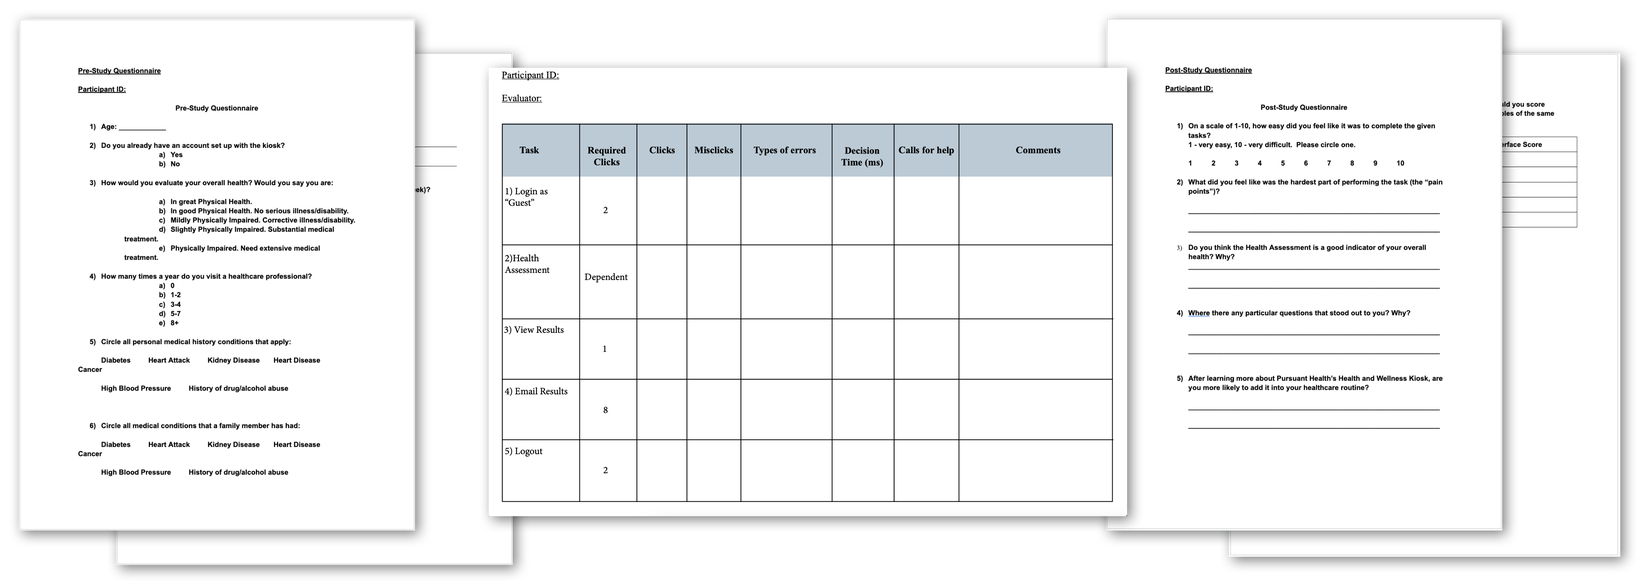
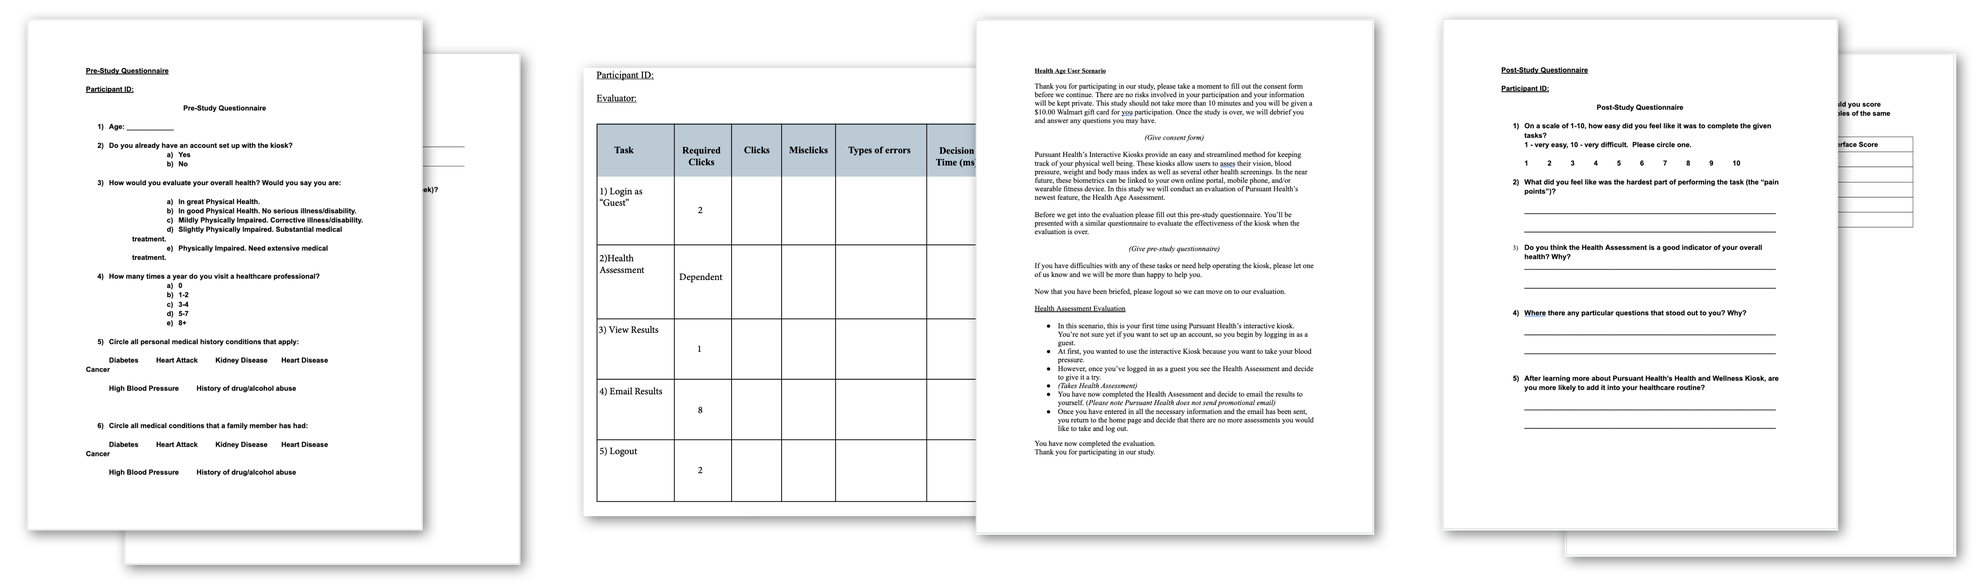
Updates to projects and fonts

diff --git a/project1.html b/project1.html
@@ -68,7 +68,7 @@
     </div>
   </header>
     
-<!-- PROJECT 1-->
+<!-- PROJECT 1 Overview-->
     
     <section class="page-section" id="portfolio_p1">
     <div class="container">
@@ -83,7 +83,8 @@
     In support of the program, the UXD and UXR team engaged on a project to inform the information architecture of the Service Now Self-Service Portal Catalog. To ensure that our work was grounded in evidence and aligned with user mental models, my research partner, and I conducted a rigorous qualitative free text analysis. As a part of our analysis, we developed a replicable framework to deliver valuable insights to our analytics team, facilitating a deeper understanding of how users articulate their technology-related issues.
 
     <br><br>
-                     
+    
+     <!-- PROJECT 1 Methods and Limitations-->
     <h2 class="text-left mt-0">Methods and Limitations</h2>          
     <p class= "text-dark mb-4" style= "font-family: sans-serif"> 
     Free text analysis is a valuable technique for designers and researchers to comprehend and classify different concepts within a given domain. It involves analyzing and organizing unstructured text data, providing insights into how people perceive and discuss information. In the realm of employee support experience transformation, where quantitative analyses may sometimes overlook nuanced insights, a qualitative free text analysis becomes crucial. Unlike broader quantitative approaches, this method allows for a deeper exploration of user sentiments and articulations related to technology issues. This qualitative check ensures that nuances are not lost, providing a more comprehensive understanding of user experiences.<br><br>
@@ -91,6 +92,12 @@
     In this analysis, we focused on the short description field in Service Now self-service ticket submissions, identifying common themes, topics, and patterns. To increase the effectiveness of this effort, we identified the top 10 ticket requests globally based on Service Now ticket volume data. For each request type, we collected and organized the free text extracted from the short description field, viewing between 30-50 tickets for each category in each country. In some countries, alternate categories were selected due to the absence of a specific catalog item.<br><br>
                       
     It is important to note that this method is purely qualitative in nature and does not provide statistically significant insights. The goal of this analysis was to establish high-level catalog item naming guidelines and to provide a framework for the analytics team to extrapolate.<br><br>
+        
+        
+        
+ <!-- PROJECT 1 Process-->
+       
+        
             
     <h2 class="text-left mt-0">Process</h2>          
     <p class= "text-dark mb-4" style= "font-family: sans-serif"> 
@@ -124,16 +131,21 @@
 </span>
 </div>
 <br><br>
+        
+
+<!-- PROJECT 1 Insights Summary-->
+
+        
         <h2 class="text-left mt-0">Insights Summary</h2>
         <br>
-        <h6 class="text-left mt-0"><b>"Intune Company Portal"</b></h6>
+        <h5 class="text-left mt-0">"Intune Company Portal"</h5>
         <p class= "text-dark mb-4" style= "font-family: sans-serif">
               
 Considering the prevalence of tickets received for both "Intune" and "Company Portal", we suggest combining the two names for better coverage of commonly used language, resulting in "Intune Company Portal".
 
  <br><br>
               
-                <h6 class="text-left mt-0"><b>"Microsoft Teams"</b></h6>
+                <h5 class="text-left mt-0">"Microsoft Teams"</h5>
           <p class= "text-dark mb-4" style= "font-family: sans-serif">
               
 Although both "Teams" and "MS Teams" were used in the same number of countries, "Teams" was more commonly used by individuals. However, "MS Teams" is a strong keyword.
@@ -141,21 +153,21 @@ Although both "Teams" and "MS Teams" were used in the same number of countries, 
    <br><br>
             
               
-                 <h6 class="text-left mt-0"><b>"Microsoft Outlook"</b></h6>
+                 <h5 class="text-left mt-0">"Microsoft Outlook"</h5>
           <p class= "text-dark mb-4" style= "font-family: sans-serif">
               
 In most cases, people referred to the product as "Outlook" without including "MS" or "Microsoft." Similar to how people referred to "Teams," they also used product functions like "Email" and "Calendar" to describe issues. These words would be great as keywords and for bot training.
 
    <br><br>
 
-      <h6 class="text-left mt-0"><b>"EY Remote Connect"</b></h6>
+      <h5 class="text-left mt-0">"EY Remote Connect"</h5>
           <p class= "text-dark mb-4" style= "font-family: sans-serif">
               
 There was a lot of variation in how people referred to EY's remote connection software, but "EY Remote Connect" is the most complete and accurate name. Most variations included a combination of "EY," "Remote," and "Connect." Because VPN usage is high in India, the USA, and China (all high-volume ticket countries), "VPN" should be an essential keyword.
               
                  <br><br>
 
-      <h6 class="text-left mt-0"><b>"RSA / SecurID"</b></h6>
+      <h5 class="text-left mt-0">"RSA / SecurID"</h5>
           <p class= "text-dark mb-4" style= "font-family: sans-serif">
               
 "RSA / SecurID" was not the most frequently used single term, but it was common across multiple countries and combines the two most common terms, "RSA token" and "SecurID," into one for better coverage. See the list of other phrases captured for how often "RSA" and "SecurID" were used in variations, and for keyword and bot training options. Other common terms include "Software Token," "RSA Hardware Token," "RSA Software Token," "SecurID Token," "SecurID VPN," "Token App," "Access Token," "RSA Security Token," "RSA Token Generator," "RSA Portal," "Security Token," "Secure Token," and "RSA code."
@@ -164,7 +176,7 @@ There was a lot of variation in how people referred to EY's remote connection so
                  <br><br>
               
               
-        <h6 class="text-left mt-0"><b>"Mercury Timesheet"</b></h6>
+        <h5 class="text-left mt-0">"Mercury Timesheet"</h5>
           <p class= "text-dark mb-4" style= "font-family: sans-serif">
               
 "Mercury Timesheet" was not the most frequently used single term, but it was common across multiple countries and combines the two most common terms, "Mercury" and "Timesheet," into one for better coverage.
@@ -172,7 +184,7 @@ There was a lot of variation in how people referred to EY's remote connection so
                  <br><br>
               
               
-             <h6 class="text-left mt-0"><b>"EY AppStore"</b></h6>
+             <h5 class="text-left mt-0">"EY AppStore"</h5>
           <p class= "text-dark mb-4" style= "font-family: sans-serif">
               
 There were a few different variations in capitalization and spacing for "EY AppStore," which should be considered when creating keywords and for bot training:
@@ -189,7 +201,7 @@ There were a few different variations in capitalization and spacing for "EY AppS
                  <br>
                   
                           
-      <h6 class="text-left mt-0"><b>"EY Canvas"</b></h6>
+      <h5 class="text-left mt-0">"EY Canvas"</h5>
           <p class= "text-dark mb-4" style= "font-family: sans-serif">
               
 
@@ -199,7 +211,7 @@ Although "EY Canvas" was not as widely used as just "Canvas," it includes "Canva
                  <br><br>
               
                                         
-      <h6 class="text-left mt-0"><b>"Phone"</b></h6>
+      <h5 class="text-left mt-0">"Phone"</h5>
           <p class= "text-dark mb-4" style= "font-family: sans-serif">
               
 
@@ -208,7 +220,7 @@ All references to "Phone" were related to installing Intune and other apps, so i
               
                  <br><br>
               
-              <h6 class="text-left mt-0"><b>"Laptop"</b></h6>
+              <h5 class="text-left mt-0">"Laptop"</h5>
           <p class= "text-dark mb-4" style= "font-family: sans-serif">
               
 
@@ -224,29 +236,35 @@ All references to "Phone" were related to installing Intune and other apps, so i
                                
 </ul>
 <br>
+        
+ 
+<!-- PROJECT 1 Reflection-->
+
+        
+        
 <h2 class="text-left mt-0">Reflection: Human-led Free Text Analysis Empowered by AI</h2>          
 <p class= "text-dark mb-4" style= "font-family: sans-serif"> 
 The ongoing advancements in AI present a compelling opportunity to enhance and expand the capabilities of a human-led free text analysis within the realm of user experience design research. While the qualitative nature of free text analysis can prove instrumental in capturing nuanced insights and understanding user sentiments, integrating AI-powered tools can expand this process by offering scalability, efficiency, and advanced analytics.<br><br>     </p>                         
                 
 
 <p class= "text-dark mb-4" style= "font-family: sans-serif"> 
-<h6 class="text-left mt-0"><b>Human-Led Framework for NLP Integration</b></h6>
+<h5 class="text-left mt-0">Human-Led Framework for NLP Integration</h5>
  <p class= "text-dark mb-4" style= "font-family: sans-serif"> 
 Human-led free text analysis establishes a structured framework by identifying key themes, sentiments, and patterns in unstructured text data, accounting for nuances and context that AI may overlook independently. The human-guided framework serves as a foundational dataset that AI-driven NLP algorithms can integrate and expand upon, enabling faster extraction of insights and greater understanding of user interactions with nuanced contexts.<br><br>
     
-<h6 class="text-left mt-0"><b>Guiding Sentiment Analysis with Human Insights</b></h6>
+<h5 class="text-left mt-0">Guiding Sentiment Analysis with Human Insights</h5>
 <p class= "text-dark mb-4" style= "font-family: sans-serif"> 
 Human-led analysis provides valuable insights into user emotions, attitudes, and contextual nuances within free text data, ensuring that AI-driven sentiment analysis accounts for complex emotions and subtle variations in sentiment expression. AI models for sentiment analysis can leverage this human-led framework to accurately identify sentiment patterns, refine sentiment categorizations, and adapt to evolving user sentiments over time while considering nuanced contexts.<br><br>
     
-<h6 class="text-left mt-0"><b>Framework-Based Topic Modeling for AI Enhancements</b></h6>
+<h5 class="text-left mt-0">Framework-Based Topic Modeling for AI Enhancements</h5>
 <p class= "text-dark mb-4" style= "font-family: sans-serif"> 
 The structured framework established through human-led topic identification and clustering accounts for nuances in nomenclature in topic categorization, ensuring that AI-powered topic modeling algorithms accurately capture and categorize diverse topics within free text data. By integrating human-derived topic categories and trends, AI can automate categorization, identify emerging topics, and enhance the accuracy of topic clustering within nuanced contexts.<br><br>
     
-<h6 class="text-left mt-0"><b>Enhancing Named Entity Recognition (NER) with Human-Curated Framework</b></h6>
+<h5 class="text-left mt-0">Enhancing Named Entity Recognition (NER) with Human-Curated Framework</h5>
 <p class= "text-dark mb-4" style= "font-family: sans-serif">
 Human analysts contribute to identifying and categorizing specific entities within free text, such as product names, technical terms, and organizational references, considering nuanced contextual references that AI may not capture independently. This curated framework serves as a valuable dataset for training AI techniques like NER, enabling more accurate entity recognition and categorization in unstructured text data while accounting for nuanced contexts.<br><br>
     
-<h6 class="text-left mt-0"><b>Utilizing Human-Driven Insights for Advanced Visualization</b></h6>
+<h5 class="text-left mt-0">Utilizing Human-Driven Insights for Advanced Visualization</h5>
 <p class= "text-dark mb-4" style= "font-family: sans-serif">
 The insights and patterns identified through human-led analysis, which account for nuances and context, provide the foundation for AI-driven data visualization tools. By integrating human-derived insights, AI can transform textual data into interactive visual representations that facilitate clearer communication of nuanced insights, trends, and correlations to stakeholders and decision-makers.<br><br>
 </p>      

diff --git a/project3.html b/project3.html
@@ -70,7 +70,10 @@
     
     
     
-<!-- PROJECT 4-->     
+<!-- PROJECT 4 Overview-->     
+    
+    
+    
      <section class="page-section" id="portfolio_p1">
     <div class="container">
     <div class="col-lg-12 col-md-12 justify-content-center" ><br>
@@ -93,6 +96,11 @@ Through a partnership with Cleveland Clinic Wellness, kiosk users can access a v
 <p class="text-dark mb-4" style= "font-family: sans-serif">             
 The Health Age assessment aims to develop a user-friendly assessment tool in collaboration with Cleveland Clinic Wellness experts. The tool measures weight, blood pressure, and lifestyle and behavioral factors to calculate a user's Health Age compared to their actual age, with an average completion time of 4-5 minutes on both kiosk and web platforms. Users are provided with personalized recommendations for improving their Health Age, while also identifying potential health risks based on their inputs and non-invasive biometric measurements. <br><br>
 
+    
+<!-- PROJECT 4 Process and Development-->   
+    
+    
+    
 <h2 class="text-left mt-0">Health Age Assessment Design and Development</h2>   
         
 <p class="text-dark mb-4" style= "font-family: sans-serif">Collaborating with Dr. Michael Roizen and the Cleveland Clinic Wellness team, we designed and developed the NCQA-certified Health Age assessment. We followed established HRA (Health Risk Assessment) standards from major health insurers as a guide, incorporating innovative elements based on a proprietary algorithm for calculating Health Age.<br><br>
@@ -103,7 +111,13 @@ The testing phase also enabled us to implement targeted interventions throughout
 
 Ultimately, our collaborative effort resulted in the NCQA certification of the Health Age assessment in Wellness and Health Promotion (WHP) by March 2016. This certification validated the assessment's effectiveness in delivering actionable insights and empowering users to proactively manage their health. <br><br>
 
-<h2 class="text-left mt-0">Testing</h2> 
+    
+    
+ <!-- PROJECT 4 Usability Testing-->     
+   
+    
+    
+<h2 class="text-left mt-0">Usability Testing</h2> 
 <p class="text-dark mb-4" style= "font-family: sans-serif">We performed usability testing during a limited release of the kiosk’s new user interface in two Walmart locations in Atlanta, Georgia. The overall objective was to identify how the system’s conceptual model aligns with users’ mental models of the system to determine potential design requirements. The evaluation was composed of three parts: <br><br>
 <ol class="text-dark mb-4" style= "font-family: sans-serif">
 <li>Pre-study survey <br></li>
@@ -113,30 +127,27 @@ Ultimately, our collaborative effort resulted in the NCQA certification of the H
 <p class="text-dark mb-4" style= "font-family: sans-serif">
 A total of ten (N=10) individuals participated in the testing. Users were divided up evenly between the two locations; five users at the Chamblee Dunwoody Walmart and five at the Ashford Dunwoody Walmart. The age of users tested ranged from 27 to 79 and the breakdown consisted of 20% ages 20-29, 20% ages 30-39, 20% ages 50-59, 20% ages 60-69 and 20% ages 70-79. <br><br>
         
-Testing was conducted by presenting two scenarios and giving users a set of tasks to perform on the kiosk. One Pursuant Health team member was responsible for prompting the user through the experience while the other was responsible for evaluating the user’s actions. Each task completed was evaluated based on the number of correct clicks/mis-clicks, types of errors associated with the mis-clicks, the time it took the user to make each decision and any calls for help.<br>
+Testing was conducted by presenting two scenarios and giving users a set of tasks to perform on the kiosk. One Pursuant Health team member was responsible for prompting the user through the experience while the other was responsible for evaluating the user’s actions. Each task completed was evaluated based on the number of correct clicks/mis-clicks, types of errors associated with the mis-clicks, the time it took the user to make each decision and any calls for help.<br><br>
  
 <div class="text-center" class="container text-center" href="img/portfolio/fullsize/Testing%20Protocol.webp">
-    <img class="img-fluid col-lg-4 col-sm-6" style= "max-width:1200px"src="img/portfolio/fullsize/Testing%20Protocol.webp" alt="Health Age Assessment Testing Protocols"> <br><br>
+    <img class="img-fluid col-lg-4 col-sm-6" style= "max-width:1200px"src="img/portfolio/fullsize/Testing%20Protocol.webp" alt="Health Age Assessment Testing Protocols"> <br><br><br>
 </div> 
     
     
-<h4 class="text-left mt-0">Findings</h4>
-<p class="text-dark mb-4" style= "font-family: sans-serif">
-Pre-Study Survey:
+<h4 class="text-left mt-0">Findings</h4><br>
+<h5 class="text-left mt-0">Pre-Study Survey:</h5>
 <ol class="text-dark mb-4" style= "font-family: sans-serif">
 <li>The pre-study survey revealed that only 60% of users considered themselves to be in good health. 30% self-reported their health as average (with a corrective illness or disability) and 10% reported as slightly physically impaired. No users considered themselves to be in great physical health and none reported being fully physically impaired.</li>
 <li>Eight out of ten users (80%) had concerns about a personal family medical condition. The breakdown consisted of 20% concerned about heart disease, 20% about diabetes, 20% about blood pressure, 10% about cancer and 10% about renal insufficiency.</li>
 </ol><br>
         
-<p class="text-dark mb-4" style= "font-family: sans-serif">    
-User Scenario Evaluation Test:<br>
+<h5 class="text-left mt-0">User Scenario Evaluation Test:</h5>
 <ol class="text-dark mb-4" style= "font-family: sans-serif">
 <li>The tasks that proved the most difficult for users included emailing results, logging in to an existing account and entering an email address.</li>
 <li>Tasks with a 100% success rate (no errors) included viewing results, taking weight (BMI) test, going to user dashboard and logging out.</li>
 </ol><br>
         
-<p class="text-dark mb-4" style= "font-family: sans-serif">           
-Post-Study Survey:<br>
+<h5 class="text-left mt-0">Post-Study Survey:</h5>
 <ol class="text-dark mb-4" style= "font-family: sans-serif">
 <li>Users were asked to report how easy it was for them to perform the given tasks on a scale of 1-10 (1 being the easiest and 10 being the most difficult). 7 out of 10 users (70%) marked a "1" (very easy), 20% marked a "2" and 10% marked a "6".</li>
 <li>When asked which feature would be the most helpful for users in reaching their health care goals, 50% said the blood pressure test, 30% said the ability to track and trend individual progress and 20% said the vision assessment.</li>
@@ -149,7 +160,7 @@ Post-Study Survey:<br>
 <p class="text-dark mb-4" style= "font-family: sans-serif">
 This testing exhibited that although the majority of participants found the tasks to be “very easy”, the usability can be improved to ensure maximum efficiency and simplicity for all kiosk users. We created a list of recommendations following the usability testing for modifying the interface software. Recommendations include increasing the visibility for certain buttons, making the “Dashboard” and “Profile” features more obvious to the user, creating a more comprehensive data storage system that seamlessly transitions data for users who visit the kiosk before creating an account as well as improving other minor interface functionalities.
         
- <ul class="text-dark mb-4" style= "font-family: sans-serif">
+<ul class="text-dark mb-4" style= "font-family: sans-serif">
 <li>Enhanced Contextual Information for Cleveland Clinic Association:<br>
 Provide clear and concise information about the Cleveland Clinic and its association with the Health Age assessment. This will help users understand the significance of the assessment and how it contributes to their overall health journey.</li>                  
 <li>Improved User Guidance for Checkbox Selection:<br>
@@ -162,13 +173,15 @@ Implement an interactive bar graph that visually compares Health Age to Physical
 Incorporate a progress bar during the Health Assessment to provide users with a clear indication of their progress and remaining assessment duration. This addition will enhance user experience by reducing uncertainty and improving engagement.</li>
 <li>Clear Communication of Health Age Assessment Purpose:<br>
 Clearly communicate the purpose of the Health Age assessment and its connection to Cleveland Clinic wellness programs. Highlight the benefits of the assessment in improving overall health to increase user engagement and motivation.</li>
-
-
 </ul>
-  <br>      
-        <h2 class="text-left mt-0">Field Soak Benchmarking</h2> 
+<br>  
+        
+ <!-- PROJECT 4 Field Soak Benchmarking-->     
+        
+        
+<h2 class="text-left mt-0">Field Soak Benchmarking</h2> 
 <p class="text-dark mb-4" style= "font-family: sans-serif">
-The Health Age Assessment was deployed to Pursuant Health kiosks located in Florida and Georgia. Pursuant Health collected data from April 2015 to July 2015 in order to compare metrics between kiosks with the new user interface (N=317) and kiosks without the new interface (N=3178).   
+The Health Age Assessment was deployed to Pursuant Health kiosks located in Florida and Georgia. Pursuant Health collected data from April 2015 to July 2015 in order to compare metrics between kiosks with the new user interface (N=317) and kiosks without the new interface (N=3178).<br> <br>
     
 <h4 class="text-left mt-0">Findings</h4>
 <p class="text-dark mb-4" style= "font-family: sans-serif">
@@ -188,44 +201,50 @@ The Health Age Assessment was deployed to Pursuant Health kiosks located in Flor
         <div class="text-center" class="container text-center" href="img/portfolio/fullsize/Graph%203.webp">
             <img class="img-fluid col-lg-4 col-sm-6" style= "max-width:1000px"src="img/portfolio/fullsize/Graph%203.webp" alt="Health Age Assessment Displayed Next to Kiosk Illustration"> <br><br>
         </div>
+        
+ 
+        
+<!-- PROJECT 4 Outcomes--> 
+        
+        
 <h2 class="text-left mt-0">Positive Health Outcomes</h2><br>     
 
-<h6 class="text-left mt-0"><b>Tobacco Cessation Program:</b></h6>
+<h5 class="text-left mt-0">Tobacco Cessation Program:</h5>
 <p class="text-dark mb-4" style= "font-family: sans-serif">
 <ul class="text-dark mb-4" style= "font-family: sans-serif">
 <li>A group of participants (N=81) enrolled in the Cleveland Clinic Tobacco Cessation e-coaching program. At the end of the program, 32 participants had dropped out of the program, resulting in 49 remaining active participants.</li>
 <li>41 participants from this group successfully quit smoking with the guidance of the program. This accounts for 51% of the total group including dropouts (N=81) and 84% of the active participants (N=49).</li>
-</ul>
+</ul><br>
         
-<h6 class="text-left mt-0"><b>Weight Loss e-Coaching</b></h6>
+<h5 class="text-left mt-0">Weight Loss e-Coaching</h5>
 <p class="text-dark mb-4" style= "font-family: sans-serif">
 <ul class="text-dark mb-4" style= "font-family: sans-serif">  
 <li>Average weight loss of 21.1 pounds</li>
 <li>Average BMI reduction of 2 points</li>
 <li>Average waist circumference reduction of 3.5 inches</li>
-</ul> 
+</ul><br>
         
         
-<h6 class="text-left mt-0"><b>Stress Management Program</b></h6>
+<h5 class="text-left mt-0">Stress Management Program</h5>
 <p class="text-dark mb-4" style= "font-family: sans-serif">
 <ul class="text-dark mb-4" style= "font-family: sans-serif">    
 <li>30% reduction in perceived stress</li>
-</ul>
+</ul><br>
      
-<h6 class="text-left mt-0"><b>Improved Sleep Program</b></h6>
+<h5 class="text-left mt-0">Improved Sleep Program</h5>
 <p class="text-dark mb-4" style= "font-family: sans-serif">
 <ul class="text-dark mb-4" style= "font-family: sans-serif">    
 <li>56% completion rate</li>
 <li>41% decrease in PIRS score</li>
 <li>10% increase in sleep efficiency</li>
-</ul>
+</ul><br>
     
-<h6 class="text-left mt-0"><b>Nutrition Program</b></h6>
+<h5 class="text-left mt-0">Nutrition Program</h5>
 <p class="text-dark mb-4" style= "font-family: sans-serif">
 <ul class="text-dark mb-4" style= "font-family: sans-serif">    
 <li>Average weight loss of 2 pounds</li>
 <li>Average waist circumference reduction of 0.5 inch</li>
-</ul>    
+</ul><br>    
           </div>
     </div>
         

diff --git a/project5.html b/project5.html
@@ -95,7 +95,7 @@
     </div>
   </header>
     
-    <!-- PROJECT 7-->   
+<!-- PROJECT 7 Overview-->   
 <section class="page-section" id="portfolio_p1">
     <div class="container">
     <div class="col-lg-12 col-md-12 justify-content-center" ><br>
@@ -104,21 +104,26 @@
 
 Hybrid working has emerged as a predominant model with EY employees spending an average of 49% of their time working remotely in FY24 compared to 10% in FY19. This shift has presented opportunities and challenges related to productivity, talent attraction and retention, employee wellbeing, organizational culture, and brand equity. As the prevalence of hybrid working continues, the virtual dimension of the "EY experience" has become more significant, making the tools and technology enabling this experience critical for success.<br>
 
-<br><br>
+<br><br>  
+                         
               
 <div class="section-with-background">
-    <h2 class="text-left mt-0">Current State Problems</h2>
-    <p class="text-dark mb-4" style="font-family: sans-serif">
-        Cost Optimization:<br>Proliferation of localized customization in device lifecycle management results in inefficiencies and inflated total cost of ownership. Conversely, rigid and highly standardized approaches may not fully address NPS.
+    <h2 class="text-left mt-0">Current State Problems</h2><br>
+    
+    <h5 class="text-left mt-0">Cost Optimization:</h5>
+     <p class="text-dark mb-4" style="font-family: sans-serif">
+         Proliferation of localized customization in device lifecycle management results in inefficiencies and inflated total cost of ownership. Conversely, rigid and highly standardized approaches may not fully address NPS.
         <br><br>
-        Attracting and Retaining Talent:
+    <h5 class="text-left mt-0"> Attracting and Retaining Talent:</h5>
         <ul class="text-dark mb-4" style="font-family: sans-serif">
             <li>Poor device performance leads to extended working hours, impacting employee stress, frustration, and overall wellbeing. It hinders engagement with the EY employer brand.</li>
             <li>Disparities in device access between home and office spaces create challenges for employees, affecting wellbeing and limiting flexibility in work choices.</li>
             <li>Suboptimal device setups impede productivity, requiring a shift from a one-size-fits-all approach to accommodate varied role and personal context needs.</li>
         </ul><br>
-        <p class="text-dark mb-4" style="font-family: sans-serif">
-        Brand Equity:<br>Client expectations for quality align with EY's brand, requiring devices that reinforce, not undermine, the EY image.
+       
+    <h5 class="text-left mt-0">Brand Equity:</h5>
+     <p class="text-dark mb-4" style="font-family: sans-serif">
+         Client expectations for quality align with EY's brand, requiring devices that reinforce, not undermine, the EY image.
         <br><br>
     </p>
 </div>
